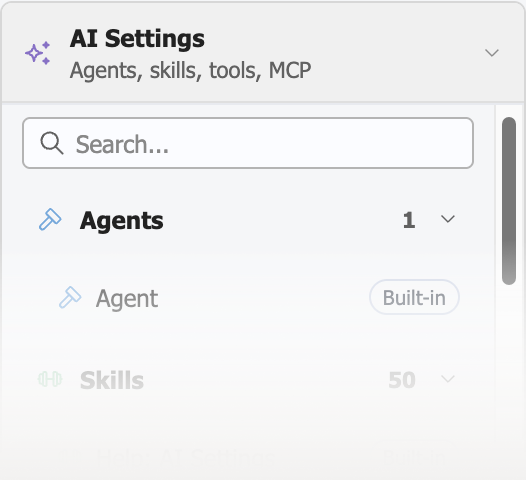
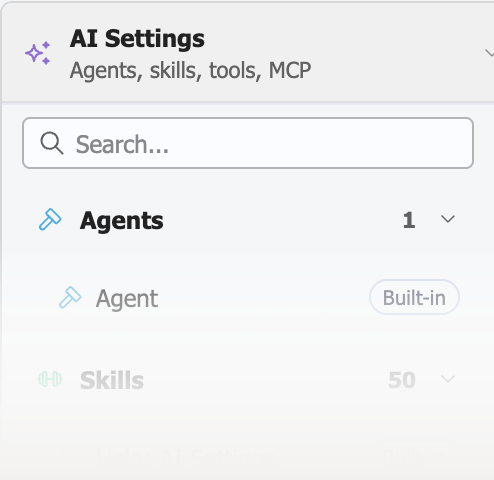
Update why section screenshots with new user uploads and verify quote-text styling

diff --git a/index.html b/index.html
@@ -205,7 +205,7 @@
         <div class="formula-row">
           <article class="formula-card">
             <div class="formula-img-wrap">
-              <img src="assets/why-domain-knowledge.png" alt="Higher-ed domain knowledge" loading="lazy">
+              <img src="assets/why-domain-knowledge.png" alt="Higher-ed domain knowledge" width="494" height="480" loading="lazy">
             </div>
             <h3>Higher-ed domain knowledge</h3>
             <p>Banner, Colleague, Ethos APIs, Ellucian Data Connect, institutional data models, integration patterns, legacy technologies, and SaaS target architectures.</p>
@@ -215,7 +215,7 @@
 
           <article class="formula-card">
             <div class="formula-img-wrap">
-              <img src="assets/why-engineering-agents.png" alt="Engineering agents" loading="lazy">
+              <img src="assets/why-engineering-agents.png" alt="Engineering agents" width="494" height="480" loading="lazy">
             </div>
             <h3>Engineering agents</h3>
             <p>Analysis, design, implementation, testing, deployment, and maintenance.</p>
@@ -225,7 +225,7 @@
 
           <article class="formula-card">
             <div class="formula-img-wrap">
-              <img src="assets/why-project-context.png" alt="Persistent project context" loading="lazy">
+              <img src="assets/why-project-context.png" alt="Persistent project context" width="494" height="480" loading="lazy">
             </div>
             <h3>Persistent project context</h3>
             <p>Requirements, mappings, source code, generated artifacts, tests, decisions, and execution history.</p>

diff --git a/css/style.css b/css/style.css
@@ -722,6 +722,7 @@ button, input, textarea {
   width: 100%;
   height: 100%;
   object-fit: cover;
+  object-position: top left;
   border-radius: 0.375rem;
 }
 
